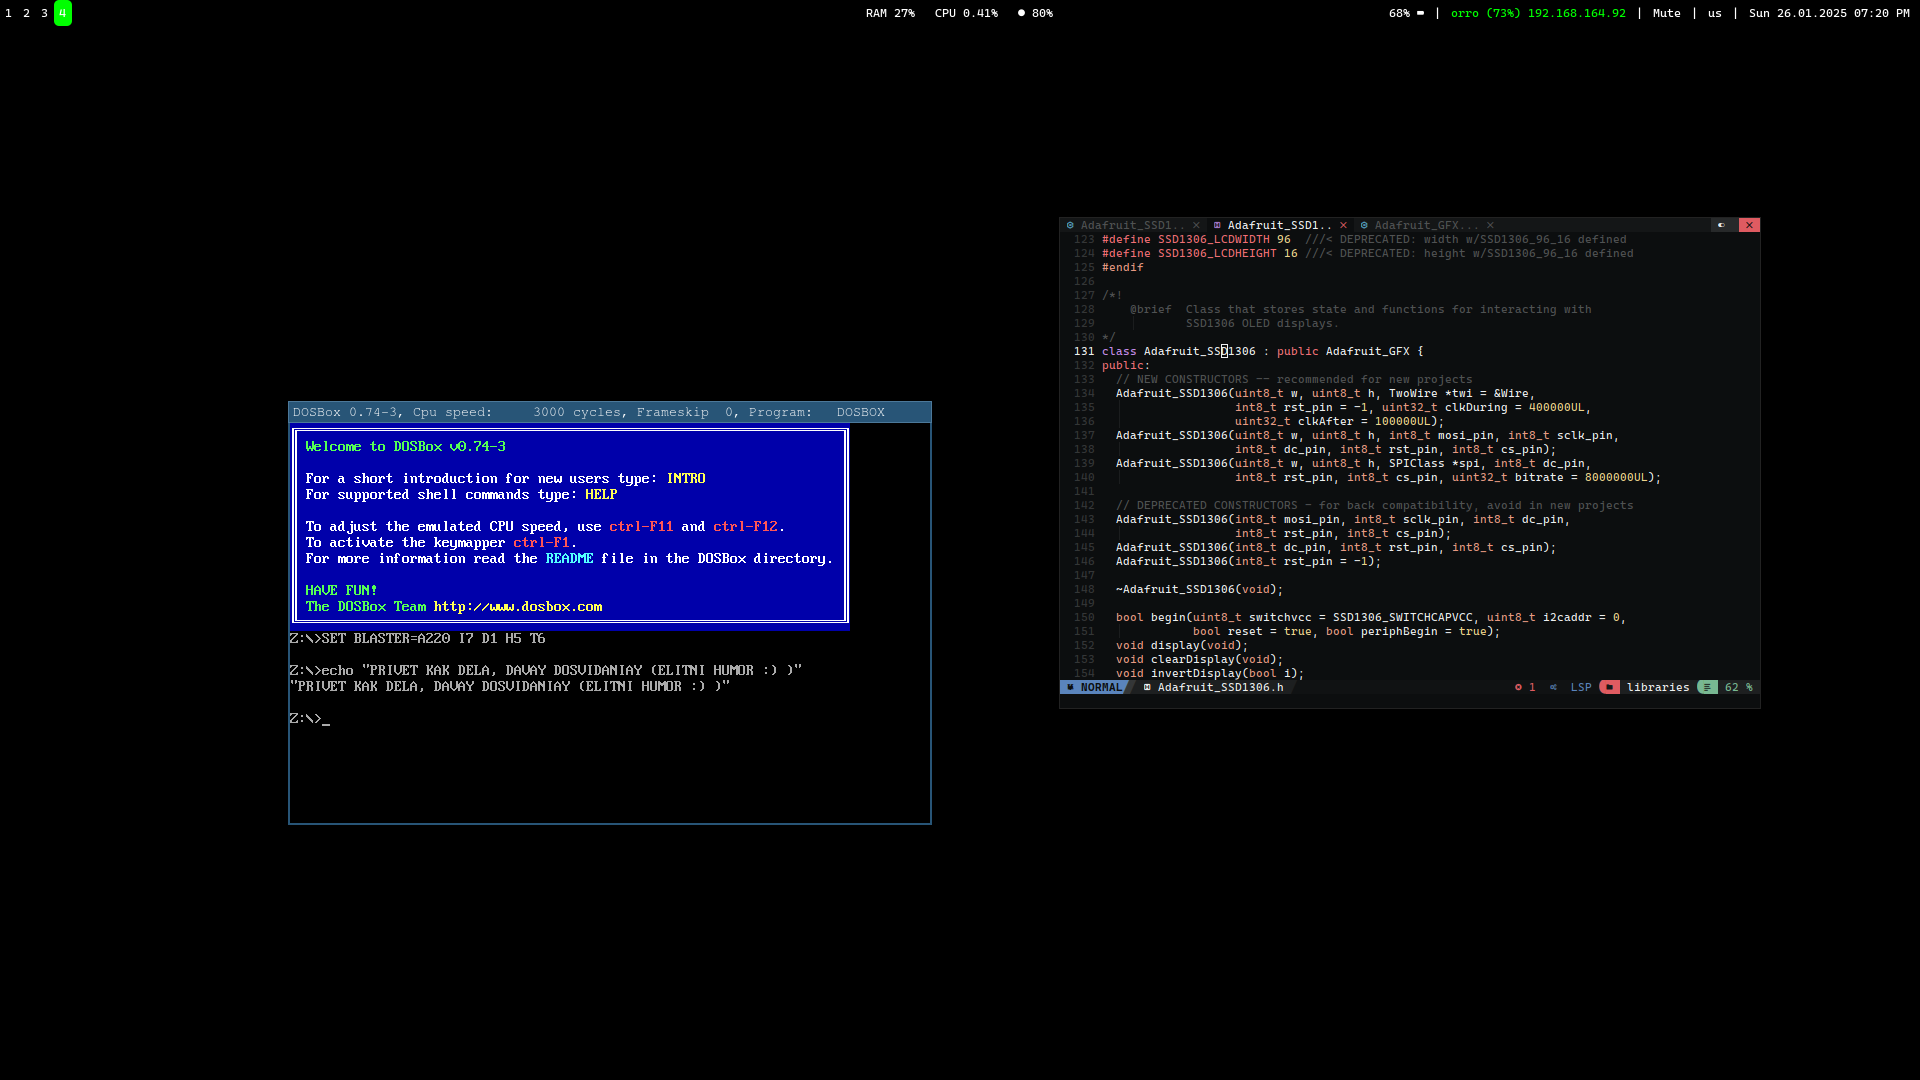
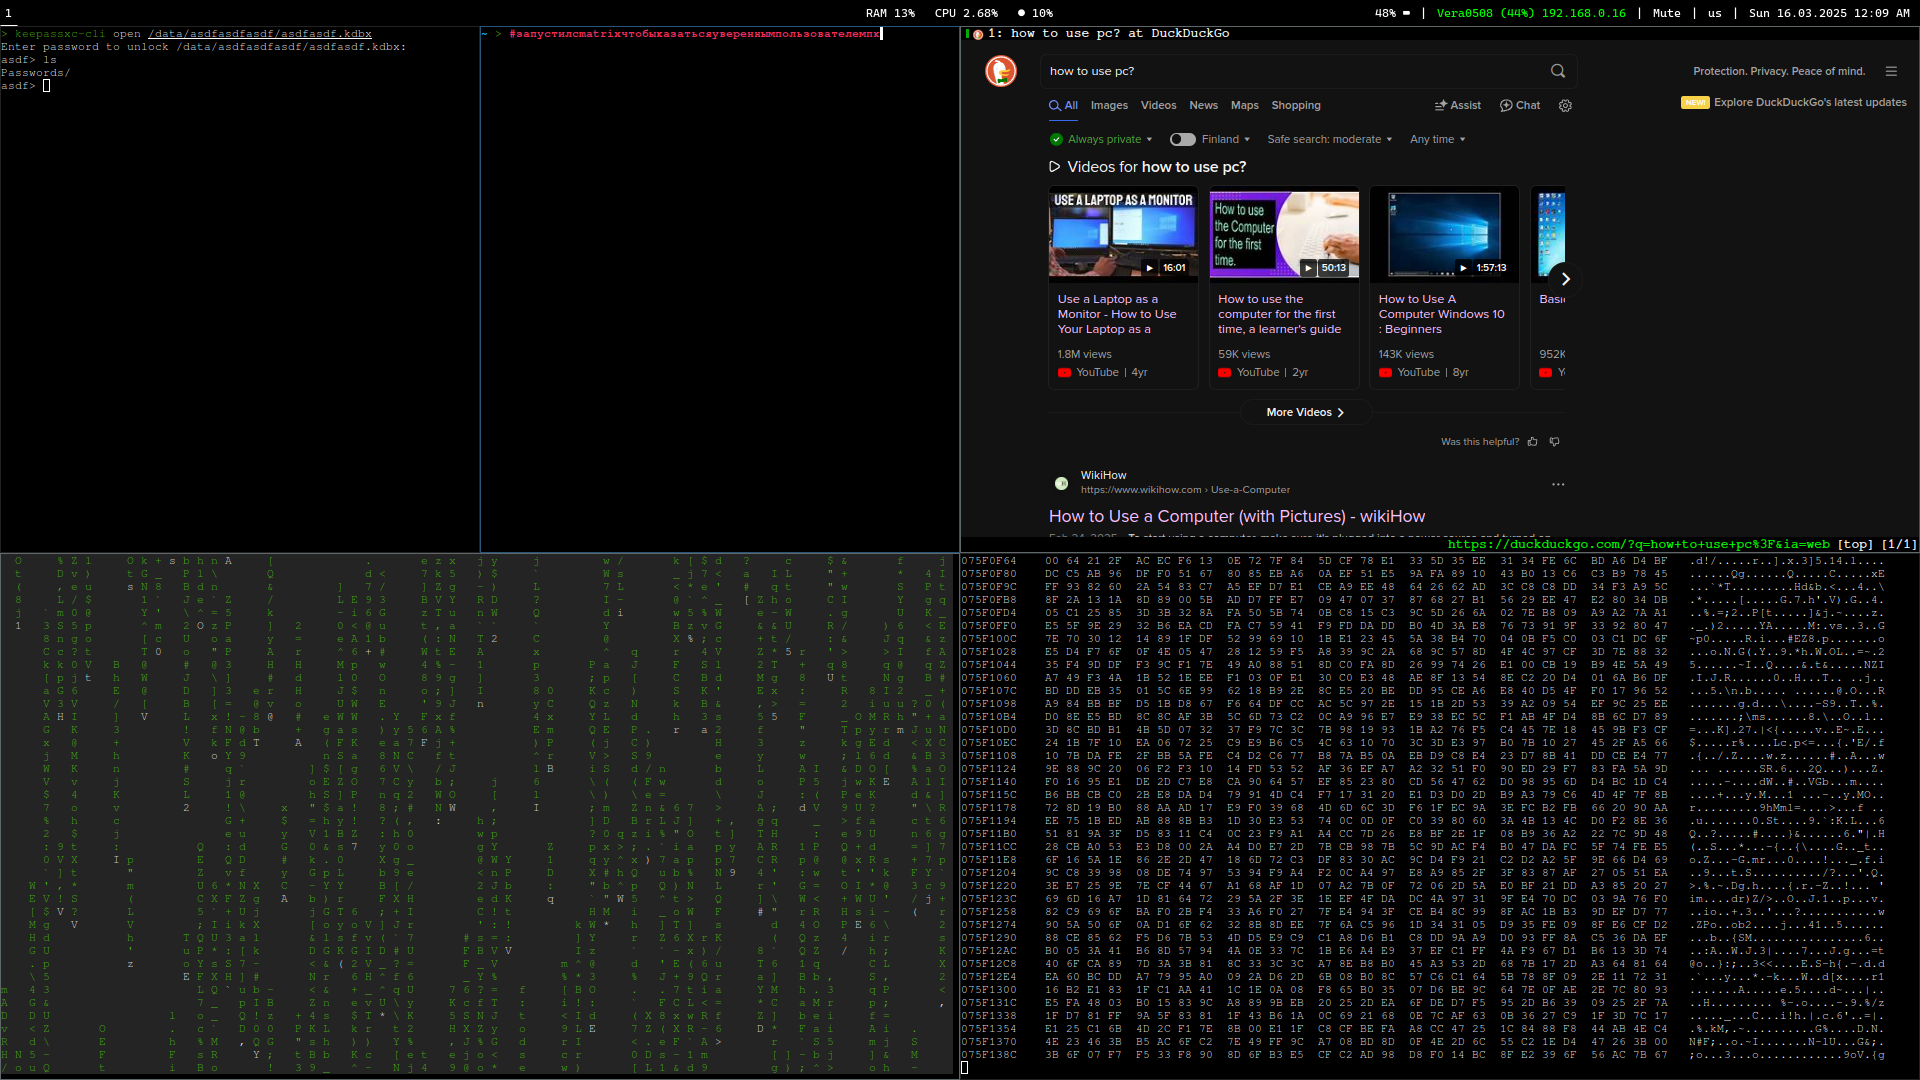
v6.0.0

diff --git a/config_files/waybar/style.css b/config_files/waybar/style.css
@@ -1,20 +1,22 @@
 * {
-font-family: "monospace", Cascadia Code;
-font-size: 12px;
-color: #ffffff;
+  font-family: "monospace", Cascadia Code;
+  font-size: 12px;
+  color: #ffffff;
 }
 
 window#waybar {
-background-color: #000000;
+  background-color: #000000;
 }
 
 #workspaces button {
-padding: 0 0px;
-color: #ffffff;
+  padding: 0 0px;
+  color: #ffffff;
 }
 
 #workspaces button.focused {
-background-color: #00FF00;
+  border-bottom: 1px solid #ffffff;
+  border-radius: 0;
+  box-shadow: none;
 }
 
 #custom-disk-root,
@@ -27,5 +29,5 @@ background-color: #00FF00;
 #keyboard-state,
 #language,
 #clock {
-padding: 0 10px;
+  padding: 0 10px;
 }

diff --git a/README.md b/README.md
@@ -1,15 +1,14 @@
 # <center>SWAY CONFIG</center>
 # About 
 <div style="text-align: center;">
-
  - OS: [**`Arch Linux`**](https://archlinux.org/)
  - Kernel: [**`Linux zen`**](https://github.com/zen-kernel/zen-kernel)
  - WM: [**`Sway`**](https://swaywm.org/)
  - Bar: [**`Waybar`**](https://github.com/Alexays/Waybar)
  - Terminal: [**`Foot`**](https://codeberg.org/dnkl/foot)
  - Shell: [**`Zsh znap`**](https://github.com/marlonrichert/zsh-snap)
-
 </div>
+
 # Images Desktop
 
 <img src="docs/1.png" align="1" width="px">
@@ -17,18 +16,32 @@
 <img src="docs/3.png" align="3" width="1000px">
 
 # About files
-#### [bin](bin) - Самописные скрипты, из /usr/local/bin/
+#### [bin](bin) - Scripts from /usr/local/bin/
 
-#### [sway](config_files/config) - Конфигурация sway wm
+#### [sway](config_files/config) - Sway
 
-#### [docs](docs) - Дерриктория, с изображениями системы
+#### [waybar](config_files/waybar) - Waybar
 
-#### [waybar](config_files/waybar) - Конфигурация waybar
+#### [foot](config_files/foot.ini) - Foot
 
-#### [foot](config_files/foot.ini) - Конфигурация foot emul
+#### [nvim](config_files/init.lua) - Neo vim
 
-#### [nvim](config_files/init.lua) - Конфигурация Neo vim (Своя конфигурация, будет изменяться)
+#### [zshrc](config_files/zshrc) - Zsh(Vim mode) & Znap
 
-#### [zshrc](config_files/zshrc) - Конфигурация Zsh(Vim mode) & Znap.
+#### [vimrc](config_files/vimrc) - Vim
 
-#### [vimrc](config_files/vimrc) - Конфигурация vim (Нужен в роли блакнота, чтобы не запускать Neo vim).
+# HotKeys
+- **Open the terminal** - `super + enter`
+- **Switch the layout** - `super + alt`
+- **Launch browser** - `super + shift + b`
+- **Launch Telegram** - `super + shift + t`
+- **Launch wmenu** - `super + d`
+- **Take a screenshot** - `PtrSc`
+- **Kill window** - `super + shift + q`
+- **Kill sway** - `super + shift + e`
+- **Reload sway** - `super + shift + c`
+- **Moving between workspaces** - `super + {1, 2..0}`
+- **Moving between windows** - `super + {h, j, k, l}`
+- **Fullscreen window mode** - `super + f`
+
+The other hotkeys are in [sway](config_files/config)
